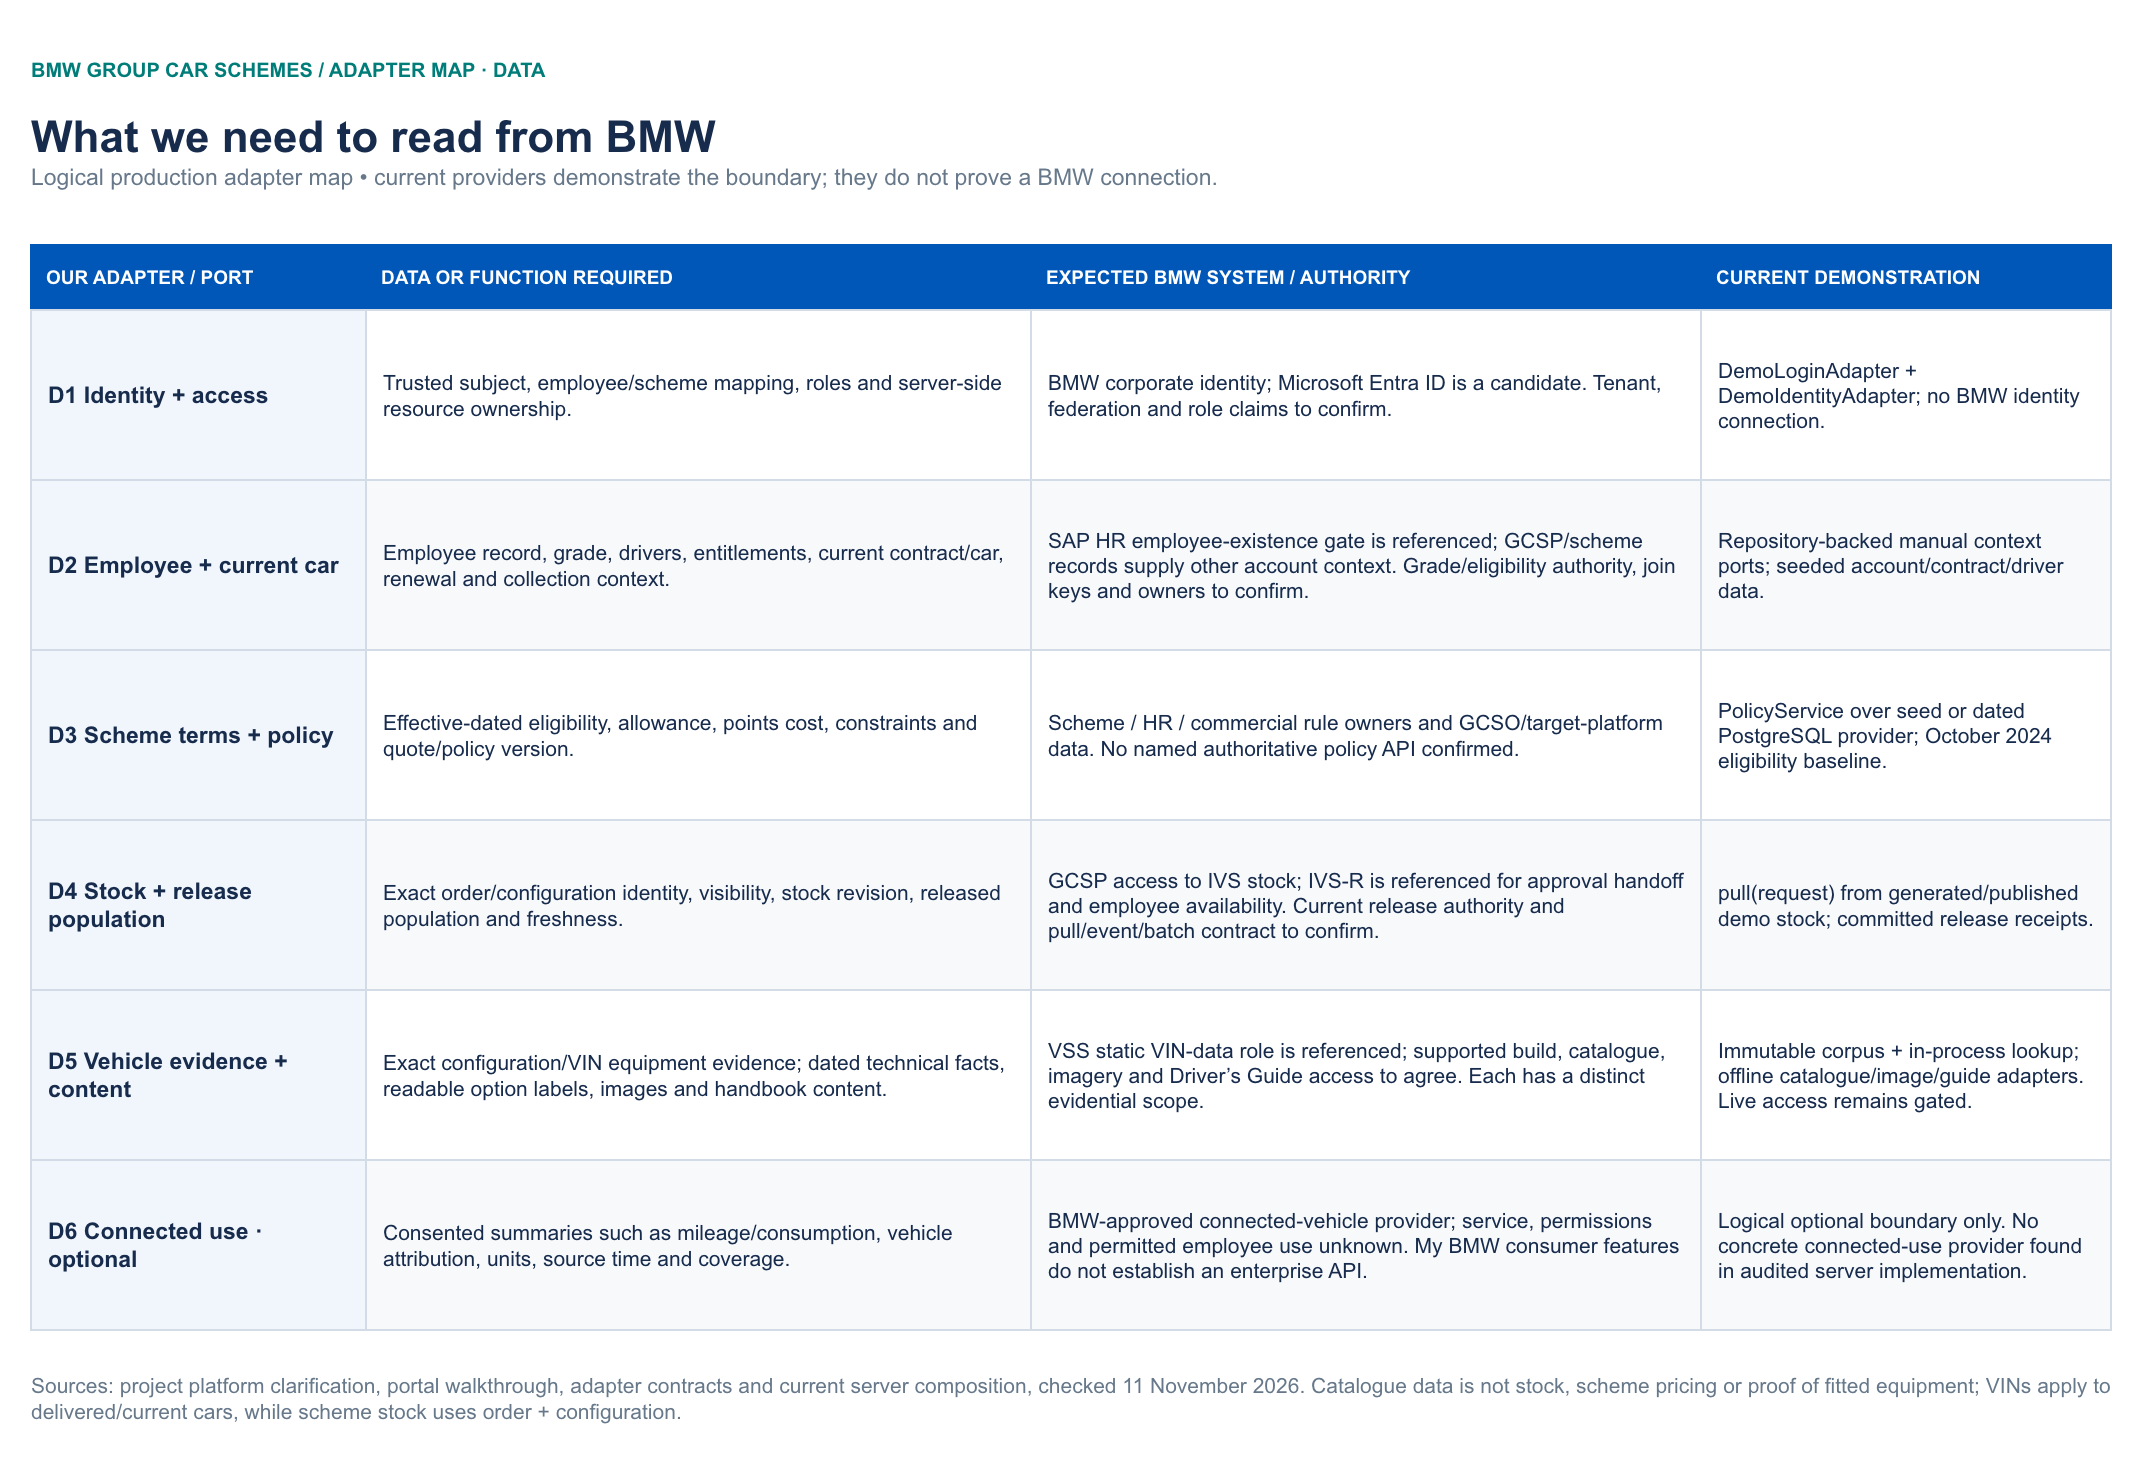
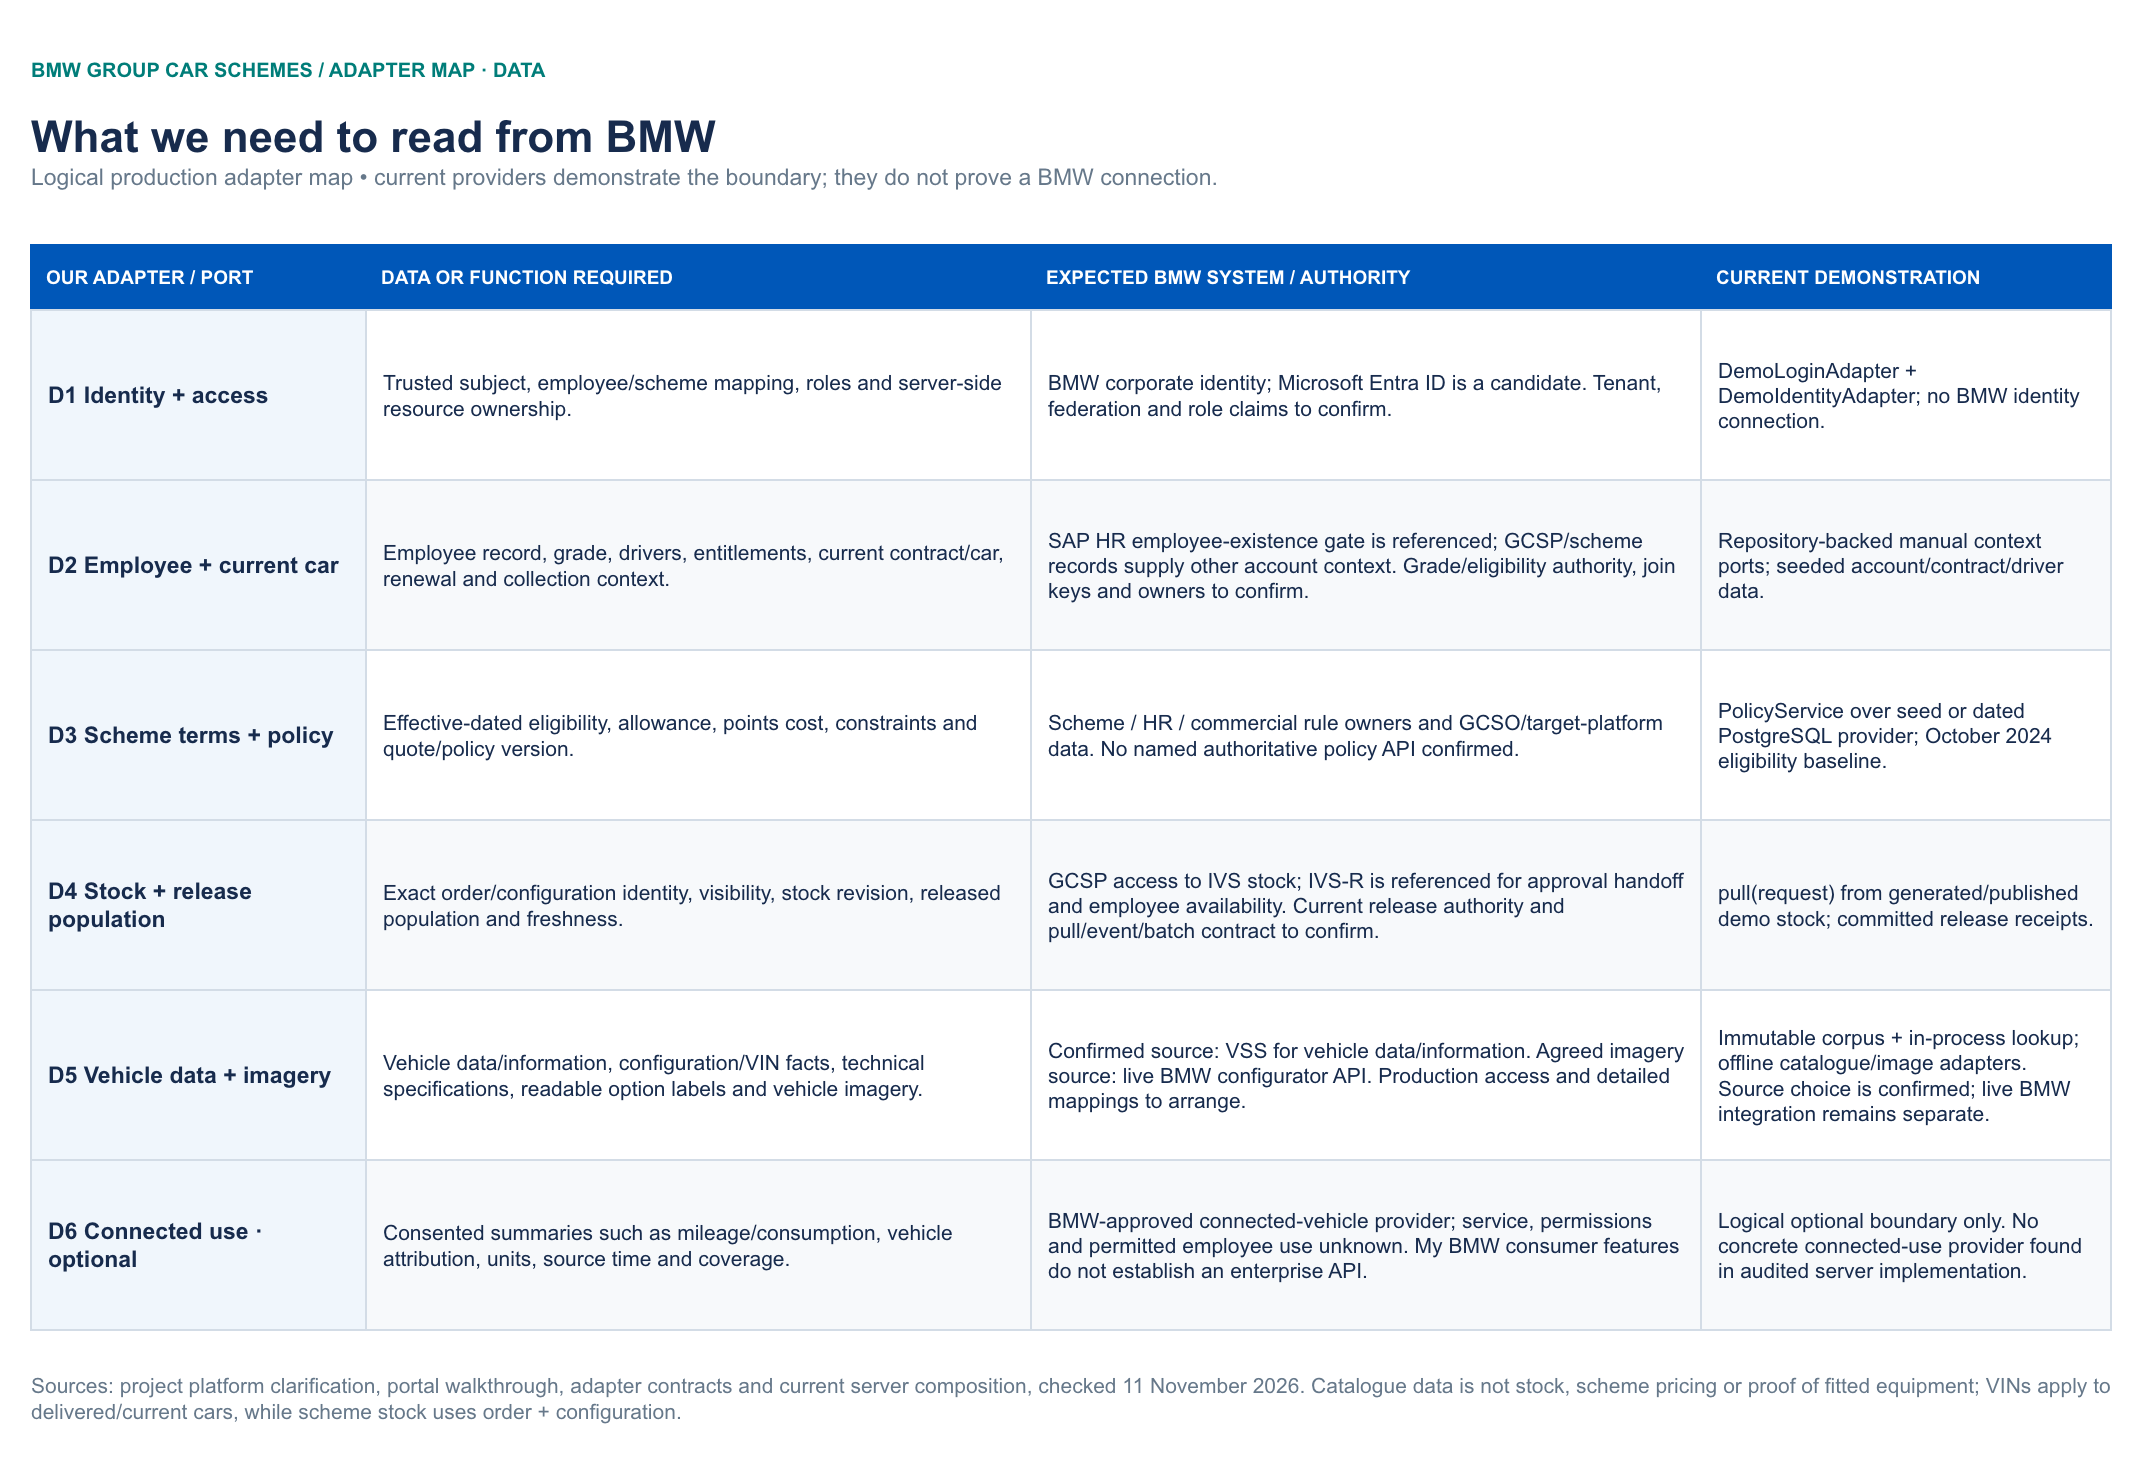
docs: confirm VSS and configurator imagery sources

Changed region(s): [[0.4928, 0.7036, 0.9855, 0.7648], [0.1848, 0.7036, 0.462, 0.7648], [0.0308, 0.7036, 0.154, 0.7648]]

diff --git a/docs/design/bmw-system-context.md b/docs/design/bmw-system-context.md
@@ -6,8 +6,8 @@ The three pages also appear as **10 BMW system context**, **11 BMW data adapters
 
 This view supports a BMW integration discussion. It maps required capabilities to known system roles and candidate providers. It does not establish live BMW API availability, migration completion or production acceptance. Adapter labels describe logical boundaries; some bundle several existing ports. The data/action pages identify the current demonstration providers separately.
 
-- **Known role** means the system or business responsibility has project evidence; its integration contract can still be unknown.
-- **Candidate** means the mapping needs BMW confirmation. Entra, Graph/Exchange, a supported vehicle/build source and the Production endpoint remain candidates.
+- **Known role** means the system or business responsibility has project evidence; its integration contract can still be unknown. **Confirmed sources**, also green, records a collaborator-confirmed data source and agreed imagery source.
+- **Candidate** means the mapping needs BMW confirmation. Entra, Graph/Exchange and the Production endpoint remain candidates.
 - **Optional** connected-use summaries have no concrete provider in the audited implementation and must not block the core journey.
 
 GCSP unifies the GCSO ordering and former ISA handover experience over mainframe functions today. The agreed future integration target is AWS; completed Java backend migration is not established. The portal walkthrough references IVS stock, IVS-R approval handoff/employee availability, IVS-ZG/IVS-R channel changes and UVDM work requests following returns. These are referenced roles, with current contracts and ownership still to confirm. SAP HR is specifically an employee-existence gate; the source does not establish its authority for all grade/eligibility, account, driver or contract facts. The policy box names rule owners rather than an identified policy product.
@@ -22,7 +22,7 @@ The first integration conversation should establish:
 4. The owners/contracts for approvals, documents, appointments/return and Production request/confirmation.
 5. Approved identity/roles, mail sender/transport, vehicle data/media access and BMW hosting/operational arrangements.
 
-Matching, forecasting, preferences and offer orchestration are our capabilities. Production planning receives Greg’s intentional requests; it is not an autonomous ordering loop. A future supply confirmation is separate from a released vehicle. Catalogue and handbook data do not prove stock availability or exact fitted equipment. The overview groups these sources for readability; the adapter map preserves their different roles. VSS is referenced for static VIN data; current supported access remains unverified, and live Driver’s Guide activation remains gated. Fleet/Used Cars/remarketing are potential downstream consumers rather than an invented direct export adapter; the known ISA → UVDM return/disposal role is recorded in A4. A runtime LLM is not required by the structured-input baseline.
+Matching, forecasting, preferences and offer orchestration are our capabilities. Production planning receives Greg’s intentional requests; it is not an autonomous ordering loop. A future supply confirmation is separate from a released vehicle. Catalogue and handbook data do not prove stock availability or exact fitted equipment. The overview groups vehicle data and imagery for readability; the adapter map preserves their different roles. **Collaborator clarification, 11 November 2026:** vehicle data/information can come from **VSS**, and vehicle imagery will come from the **live BMW configurator API**. The shared external box is therefore green and labelled **Confirmed sources**. This records source selection; production access, detailed mappings and working integration remain to be arranged. Live Driver’s Guide activation remains separately gated. Fleet/Used Cars/remarketing are potential downstream consumers rather than an invented direct export adapter; the known ISA → UVDM return/disposal role is recorded in A4. A runtime LLM is not required by the structured-input baseline.
 
 Evidence used:
 
@@ -33,7 +33,7 @@ Evidence used:
 | Current employee / role ports | [Manual context ports](../../server/gcsp/manual-context/ports.js), [identity adapter](../../server/gcsp/identity/login-adapter.js), [runtime composition](../../server/gcsp/runtime.js) |
 | Policy and stock | [PolicyService](../../server/gcsp/policy/index.js), [stock/release contract](../gcsp/stock-release-contract.md), [run stock provider](../../server/gcsp/stock/run-stock.js) |
 | Transactional actions | [Local stock](../../server/gcsp/adapters/manual-stock.js), [ordering](../../server/gcsp/adapters/synthetic-ordering.js), [status](../../server/gcsp/adapters/synthetic-ordering-status.js), [documents](../../server/gcsp/adapters/synthetic-ordering-documents.js), [appointments](../../server/gcsp/adapters/synthetic-appointments.js), [return outcomes](../../server/gcsp/adapters/synthetic-return-outcomes.js) |
-| Vehicle data and connected-use limits | [BMW interface research](../gcsp/bmw-interface-research.md), [lookup adapter](../../server/gcsp/vehicle-evidence/lookup-adapter.js), [HLD provider boundaries](gcsp-high-level-design.md), [Sandeep questions](../gcsp/questions-for-sandeep.md), SAN-012 |
+| Vehicle data and connected-use limits | Collaborator confirmation/selection on 11 November 2026: VSS data/information and live configurator API imagery. [BMW interface research](../gcsp/bmw-interface-research.md), [lookup adapter](../../server/gcsp/vehicle-evidence/lookup-adapter.js), [HLD provider boundaries](gcsp-high-level-design.md), [Sandeep questions](../gcsp/questions-for-sandeep.md), SAN-012. Connected-use access remains separate. |
 | Mail and Production | [Mail transport composition](../../server/gcsp/notify/config.js), [mail port](../../server/gcsp/notify/port.js), [email research and direction](../gcsp/demo-brief.md#email-adapter-and-microsoft-setup--checked-1-november), [synthetic Production](../../server/gcsp/supply/synthetic-production.js) |
 
 Microsoft primary documentation was checked on 11 November 2026: [Microsoft Entra overview](https://learn.microsoft.com/en-us/entra/fundamentals/whatis), [Graph sendMail](https://learn.microsoft.com/en-us/graph/api/user-sendmail?view=graph-rest-1.0) and [Outlook mail API](https://learn.microsoft.com/en-us/graph/api/resources/mail-api-overview?view=graph-rest-1.0). These confirm service roles, not BMW’s configuration. Native hosted research returned no content; Parallel retrieved the official documentation (`search_471d4396b7625473b8ac8dfcd1bfb756`, `extract_424a574fa60fdc268a4fc5c991f759a2`).
@@ -44,4 +44,4 @@ Independent reviewer: Charlie Dog, requested/selected `gpt-6.1-sol` / `high` (Op
 
 Review findings were implemented and the corrected exports inspected: connector routes and labels, employee actor, SAP HR’s limited evidenced role, IVS/IVS-R/UVDM mappings and offline/live vehicle-provider boundaries. The final actor connector was moved clear of the boundary heading and re-inspected by the parent. Both supporting maps were independently found readable and unclipped. Use the overview for the conversation and zoom the tables when discussing individual contracts.
 
-Cleanup receipt: all five manifest-owned temporary roots were removed and their absence verified; the final browser process group was absent. Maximum sampled temporary allocation was **150,272 bytes**. The compatibility exception was the active local headless-browser profile/working set, which was disposed of after rendering. No archives or large retained outputs, no owned cleanup leftovers. The local retained summary is `.claude/test-runs/bmw-system-context-20261111/final-validation.json`, with detailed ownership records under its sibling `ownership/` directory.
+Cleanup receipt: all manifest-owned temporary roots were removed and their absence verified; the final browser process group was absent. Maximum sampled temporary allocation was **150,272 bytes**. The compatibility exception was the active local headless-browser profile/working set, which was disposed of after rendering. No archives or large retained outputs, no owned cleanup leftovers. The local retained summary is `.claude/test-runs/bmw-system-context-20261111/final-validation.json`, with detailed ownership records under its sibling `ownership/` directory.

diff --git a/docs/design/README.md b/docs/design/README.md
@@ -34,7 +34,7 @@ The employee overview was split into area pages to keep connectors readable. Ref
 
 ## Status and boundaries
 
-Pages **10–12** use their own integration key: green identifies a known/referenced system role and amber a candidate mapping. Blue identifies our experience and logical adapters on those pages; it does not claim that a BMW connection is built or verified. The build-progress colours below describe the earlier implementation/target views.
+Pages **10–12** use their own integration key: green identifies a known/referenced system role or confirmed source selection, and amber a candidate mapping. The vehicle box is green following the 11 November collaborator confirmation of VSS for vehicle data/information and selection of the live configurator API for imagery. Blue identifies our experience and logical adapters on those pages; it does not claim that a BMW connection is built or verified. The build-progress colours below describe the earlier implementation/target views.
 
 Blue means current implementation; purple/dashed means proposed. Current application code was reviewed at `27cf841e1af6ea1c0598bcd63700145138fdb947`; this FUCQ-6 review uses checkout `eefc85c` and its existing working-copy context. The retail API and exports exist; their internal shared-core extraction does not. Russell agreed the shared recommendation direction on 1 November 2026 and requested implementation stories for FUCQ-8. Its shared recommendation work is being refined separately from the wider employee lifecycle. Proposed components remain purple until built and verified; design agreement does not establish implementation or operational acceptance. No application code or hosting was changed by this design update.
 
